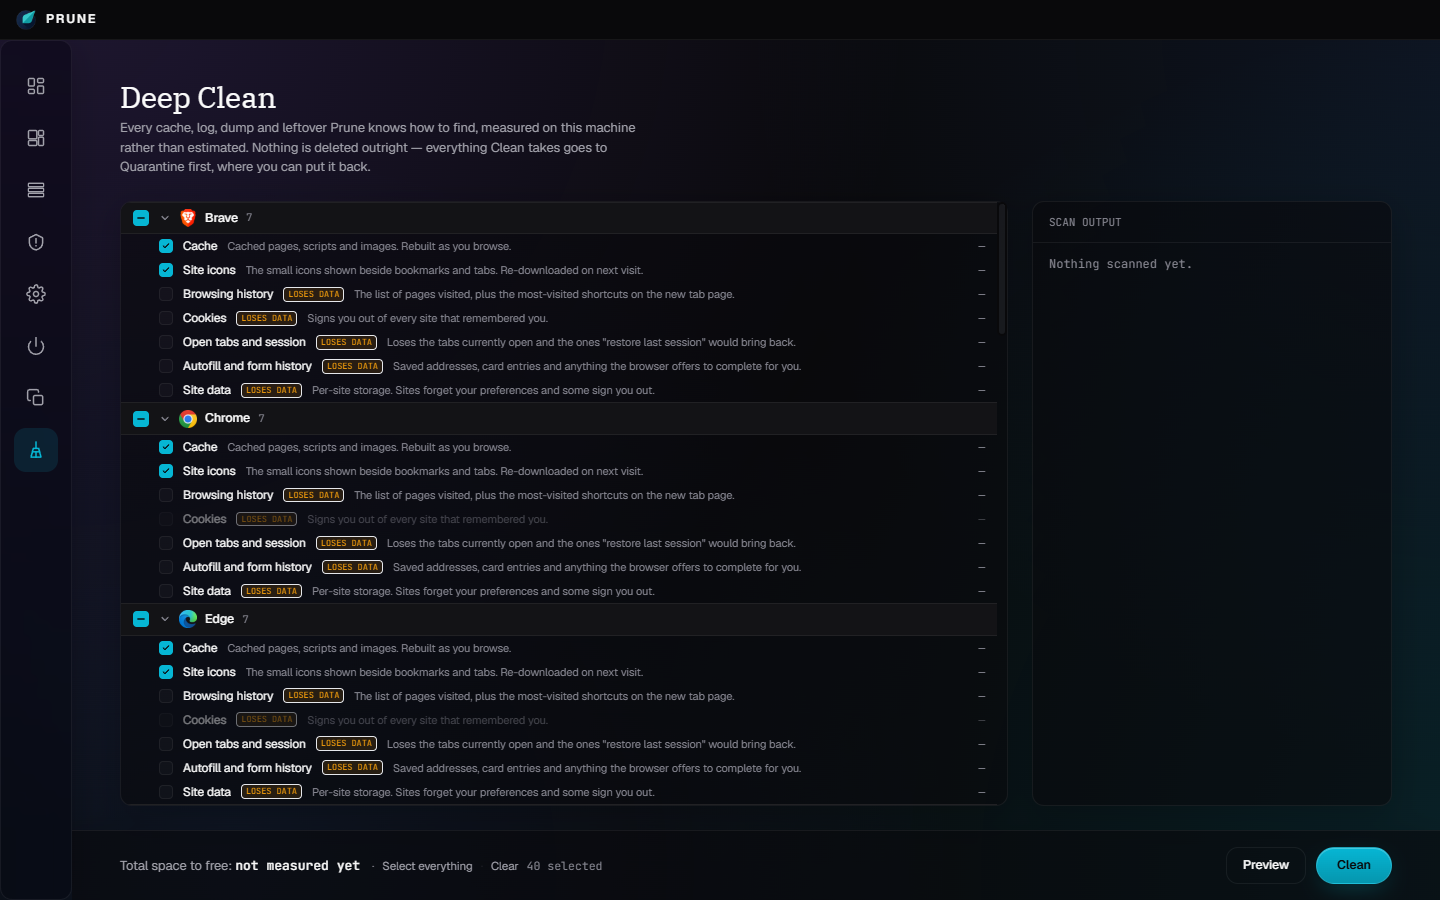
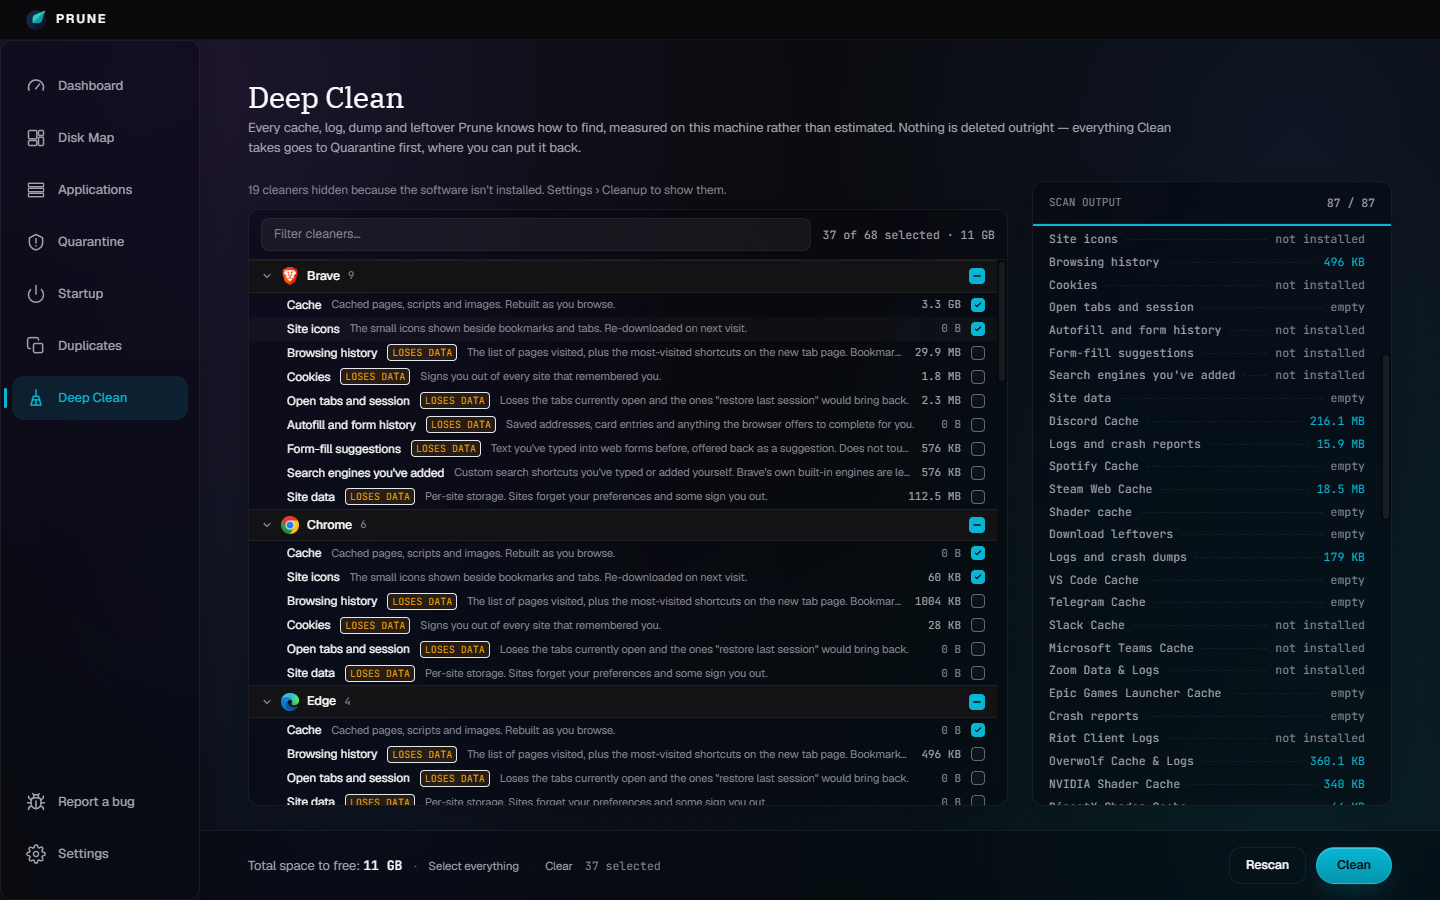
docs: retake the README screenshots from 2.8.0
Dashboard (drive-only health, dark and light), Applications with icons,
Deep Clean after a scan, Startup. The Windows user name in launch paths is
replaced with 'you' before capture.

diff --git a/README.md b/README.md
@@ -192,11 +192,11 @@ anything leaves the app.
 <table>
 <tr>
 <td width="50%"><img src="docs/screenshots/applications-dark.png" alt="The Applications screen: 210 installed programs with real icons, measured sizes, versions and install dates, filterable by Unused, Store, Extensions and Broken" /></td>
-<td width="50%"><img src="docs/screenshots/deep-clean-dark.png" alt="Deep Clean: rules grouped by application, each with a plain-English description, and a Loses data badge on the ones that sign you out or clear history" /></td>
+<td width="50%"><img src="docs/screenshots/deep-clean-dark.png" alt="Deep Clean after a scan: measured sizes per rule, a Loses data badge on the ones that sign you out or clear history, a scan log beside the tree, and a line saying 19 cleaners are hidden because that software is not installed" /></td>
 </tr>
 <tr>
 <td align="center"><b>Applications</b><br/><sub>Every hive, plus Store apps and extensions</sub></td>
-<td align="center"><b>Deep Clean</b><br/><sub>Rules that lose something are marked, and never ticked by default</sub></td>
+<td align="center"><b>Deep Clean</b><br/><sub>Measured sizes; rules that lose something are marked and never ticked by default</sub></td>
 </tr>
 <tr>
 <td width="50%"><img src="docs/screenshots/startup-dark.png" alt="The Startup screen: 56 sign-in entries grouped by registry hive and Startup folder, showing which are enabled and which are running now" /></td>
